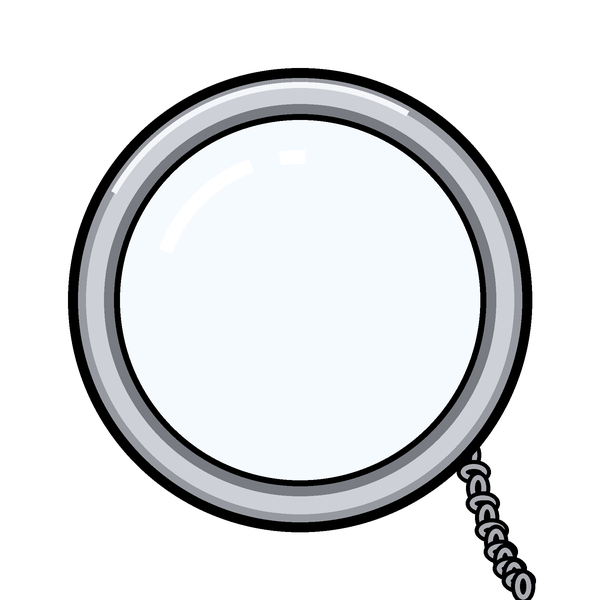
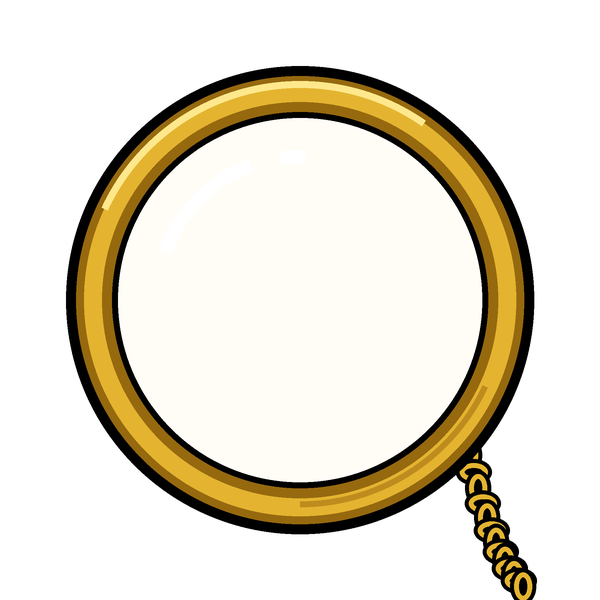
Zubehoer-Outfits (zusammen an/aus), goldenes Monokel, Gentleman-Outfit aktiv; Stefans Monokel-Platzierung
Claude-Session: https://claude.ai/code/session_01WAYk2D3oB2eZHrMfHXK8Zn

Changed region(s): [[0.09, 0.09, 0.9, 1.0]]

diff --git a/werkzeuge/avatar_editor.py b/werkzeuge/avatar_editor.py
@@ -108,6 +108,8 @@ class Projekt:
         self.bauplan = json.loads((self.ordner / "bauplan.json").read_text(encoding="utf-8"))
         z = self.ordner / "zubehoer.json"
         self.zubehoer = json.loads(z.read_text(encoding="utf-8")) if z.exists() else {}
+        o = self.ordner / "outfits.json"
+        self.outfits = json.loads(o.read_text(encoding="utf-8")) if o.exists() else {"aktiv": None, "outfits": {}}
         self.vorschau_laden()
 
     def vorschau_laden(self) -> None:
@@ -120,6 +122,10 @@ class Projekt:
 
     def bauplan_speichern(self) -> None:
         (self.ordner / "bauplan.json").write_text(json.dumps(self.bauplan, indent=2, ensure_ascii=False) + "\n",
+                                                  encoding="utf-8")
+
+    def outfits_speichern(self) -> None:
+        (self.ordner / "outfits.json").write_text(json.dumps(self.outfits, indent=2, ensure_ascii=False) + "\n",
                                                   encoding="utf-8")
 
     def zubehoer_speichern(self) -> None:
@@ -771,10 +777,10 @@ class ZubehoerTab(QWidget):
         self.sitz.currentIndexChanged.connect(self._eigenschaften)
         form.addRow("Standard-Sitz", self.sitz)
         self.gruppe = QLineEdit()
-        self.gruppe.setToolTip("Aus einer Gruppe trägt er immer nur eins (z. B. „hut“)")
+        self.gruppe.setToolTip("Von allem auf demselben Platz trägt er nur eins (z. B. „hut“, „auge“, „hand“)")
         self.gruppe.editingFinished.connect(self._eigenschaften)
-        form.addRow("Gruppe", self.gruppe)
-        self.immer = QCheckBox("trägt er immer")
+        form.addRow("Platz", self.gruppe)
+        self.immer = QCheckBox("trägt er immer (einzeln)")
         self.immer.setToolTip("Dauerhaft auf (z. B. sein Hut). Kopfhörer kommen automatisch bei Musik.")
         self.immer.toggled.connect(self._eigenschaften)
         form.addRow("", self.immer)
@@ -787,6 +793,31 @@ class ZubehoerTab(QWidget):
         kb.addWidget(bild_neu)
         kb.addWidget(bild_auf)
         ll.addLayout(kb)
+
+        # Outfits: mehrere Teile gemeinsam an/aus
+        trenner = QFrame()
+        trenner.setFrameShape(QFrame.Shape.HLine)
+        ll.addWidget(trenner)
+        ll.addWidget(QLabel("Outfits (zusammen an- und ausziehen)"))
+        oz = QHBoxLayout()
+        self.outfit_wahl = QComboBox()
+        self.outfit_wahl.currentIndexChanged.connect(lambda _: self.outfit_anzeigen())
+        oz.addWidget(self.outfit_wahl, 1)
+        o_neu = QPushButton("Neu …")
+        o_neu.clicked.connect(self._outfit_neu)
+        o_weg = QPushButton("Löschen")
+        o_weg.clicked.connect(self._outfit_loeschen)
+        oz.addWidget(o_neu)
+        oz.addWidget(o_weg)
+        ll.addLayout(oz)
+        self.outfit_teile = QListWidget()
+        self.outfit_teile.setMaximumHeight(120)
+        self.outfit_teile.itemChanged.connect(self._outfit_teil)
+        ll.addWidget(self.outfit_teile)
+        self.outfit_an = QPushButton()
+        self.outfit_an.setObjectName("haupt")
+        self.outfit_an.clicked.connect(self._outfit_umschalten)
+        ll.addWidget(self.outfit_an)
         split.addWidget(links)
 
         # Mitte: Posen
@@ -865,6 +896,7 @@ class ZubehoerTab(QWidget):
         treffer = self.teile.findItems(teil or "", Qt.MatchFlag.MatchExactly)
         self.teile.setCurrentItem(treffer[0] if treffer else self.teile.item(0))
         self.teile.blockSignals(False)
+        self.outfits_aufbauen()
         self.posen.blockSignals(True)
         self.posen.clear()
         for s in sorted(pr.posen(), key=lambda k: not pr.benutzt(k)):
@@ -1011,6 +1043,81 @@ class ZubehoerTab(QWidget):
                     w["immer"] = False
         self.editor.projekt.zubehoer_speichern()
         self.editor.geaendert()
+
+    # --- Outfits -----------------------------------------------------------------
+    def outfits_aufbauen(self) -> None:
+        o = self.editor.projekt.outfits
+        alt = self.outfit_wahl.currentText() or o.get("aktiv") or ""
+        self.outfit_wahl.blockSignals(True)
+        self.outfit_wahl.clear()
+        for name in o.get("outfits", {}):
+            self.outfit_wahl.addItem(name)
+        i = self.outfit_wahl.findText(alt)
+        self.outfit_wahl.setCurrentIndex(i if i >= 0 else 0)
+        self.outfit_wahl.blockSignals(False)
+        self.outfit_anzeigen()
+
+    def outfit_anzeigen(self) -> None:
+        o = self.editor.projekt.outfits
+        name = self.outfit_wahl.currentText()
+        teile = set(o.get("outfits", {}).get(name, []))
+        self.outfit_teile.blockSignals(True)
+        self.outfit_teile.clear()
+        for t in self.editor.projekt.zubehoer:
+            it = QListWidgetItem(t)
+            it.setFlags(it.flags() | Qt.ItemFlag.ItemIsUserCheckable)
+            it.setCheckState(Qt.CheckState.Checked if t in teile else Qt.CheckState.Unchecked)
+            self.outfit_teile.addItem(it)
+        self.outfit_teile.blockSignals(False)
+        self.outfit_teile.setEnabled(bool(name))
+        an = bool(name) and o.get("aktiv") == name
+        self.outfit_an.setEnabled(bool(name))
+        self.outfit_an.setText(f"„{name}“ ausziehen" if an else (f"„{name}“ anziehen" if name else "kein Outfit"))
+
+    def _outfit_teil(self, it: QListWidgetItem) -> None:
+        o = self.editor.projekt.outfits
+        name = self.outfit_wahl.currentText()
+        if not name:
+            return
+        teile = [self.outfit_teile.item(i).text() for i in range(self.outfit_teile.count())
+                 if self.outfit_teile.item(i).checkState() == Qt.CheckState.Checked]
+        o.setdefault("outfits", {})[name] = teile
+        self.editor.projekt.outfits_speichern()
+        self.editor.geaendert()
+
+    def _outfit_umschalten(self) -> None:
+        o = self.editor.projekt.outfits
+        name = self.outfit_wahl.currentText()
+        o["aktiv"] = None if o.get("aktiv") == name else name
+        self.editor.projekt.outfits_speichern()
+        self.editor.geaendert()
+        self.outfit_anzeigen()
+        self.editor.meldung(f"Outfit „{name}“ " + ("angezogen." if o["aktiv"] else "ausgezogen.")
+                            + " Nach dem Bau „Kobold neu starten“.")
+
+    def _outfit_neu(self) -> None:
+        name, ok = QInputDialog.getText(self, "Neues Outfit", "Name (z. B. gentleman, pirat, winter):")
+        name = "".join(c for c in name.strip().lower() if c.isalnum() or c in "_-")
+        if not ok or not name:
+            return
+        o = self.editor.projekt.outfits
+        o.setdefault("outfits", {}).setdefault(name, [])
+        self.editor.projekt.outfits_speichern()
+        self.outfits_aufbauen()
+        self.outfit_wahl.setCurrentText(name)
+
+    def _outfit_loeschen(self) -> None:
+        name = self.outfit_wahl.currentText()
+        o = self.editor.projekt.outfits
+        if not name or QMessageBox.question(self, "Löschen", f"Outfit „{name}“ löschen?") \
+                != QMessageBox.StandardButton.Yes:
+            return
+        o.get("outfits", {}).pop(name, None)
+        if o.get("aktiv") == name:
+            o["aktiv"] = None
+        self.editor.projekt.outfits_speichern()
+        self.editor.geaendert()
+        self.outfits_aufbauen()
 
     def _teil_datei(self) -> Path | None:
         t = self.teil

diff --git a/werkzeuge/avatar_bauen.py b/werkzeuge/avatar_bauen.py
@@ -341,6 +341,10 @@ def bauen(quelle: Path) -> Path:
     zubehoer_plan = json.loads((quelle / "zubehoer.json").read_text(encoding="utf-8")) \
         if (quelle / "zubehoer.json").exists() else {}
     zubehoer_info = zubehoer_vorbereiten(quelle, zubehoer_plan, ziel)
+    # Outfits: Zubehör, das gemeinsam an- und ausgezogen wird (outfits.json)
+    outfits = json.loads((quelle / "outfits.json").read_text(encoding="utf-8")) \
+        if (quelle / "outfits.json").exists() else {"aktiv": None, "outfits": {}}
+    im_outfit = set(outfits.get("outfits", {}).get(outfits.get("aktiv") or "", []))
 
     # 4) Animationen
     animationen = {}
@@ -420,7 +424,10 @@ def bauen(quelle: Path) -> Path:
         "portraet": portraet,
         "animationen": animationen,
         "toene": toene,
-        "zubehoer": {teil: {"bild": info["bild"], "immer": bool(zubehoer_plan[teil].get("immer")),
+        "outfits": outfits.get("outfits", {}),
+        "outfit": outfits.get("aktiv"),
+        "zubehoer": {teil: {"bild": info["bild"],
+                            "immer": bool(zubehoer_plan[teil].get("immer")) or teil in im_outfit,
                             "gruppe": zubehoer_plan[teil].get("gruppe", teil)}
                      for teil, info in zubehoer_info.items()},
     }
